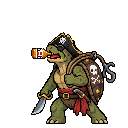
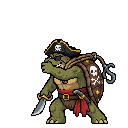
fix(art): 糖果龟放技能瞬移 —— 三段技能裸帧按带特效舞台的偏移量摆, 一放就偏 60 多像素、往上飘 90 像素
用户 11-07「它怎么瞬移到别的地方去了」。门禁 verify_seq_hooks ⑩ 量帧条本身, 修前红、修后绿。
同批: 朗姆酒拆成抬头等瓶 + 瓶到手才接(飞行时间随距离变); 强化星波彗星落下时补一下动作;
被动段全部走真入口验证(闪避 / 处决箭 / 连击 / 吸取 / 登场 / 壁垒收尾)。

Changed region(s): [[0.2188, 0.25, 0.9062, 0.9375]]

diff --git a/tools/oneoff/turtle_seq_1107/seq_export.py b/tools/oneoff/turtle_seq_1107/seq_export.py
@@ -27,7 +27,7 @@ SK = {
     "hiding": {"缩头": "hidingShrink", "防御": "hidingDefend", "强化随从": "hidingBuffSummon"},
     "headless": {"恐吓": "headlessFear", "万千触须": "headlessTendrils", "灵魂打击": "headlessSoulStrike"},
 }
-FORM = {"甜蜜吸取": "drain", "钻石结构_登场": "enter", "闪避": "dodge", "处决": "execute", "多重打击": "multi", "登场": "enter", "霰弹": "shot"}
+FORM = {"接瓶": "drink", "甜蜜吸取": "drain", "钻石结构_登场": "enter", "闪避": "dodge", "处决": "execute", "多重打击": "multi", "登场": "enter", "霰弹": "shot"}
 RAWNAME = {"dice": "dice3"}
 
 
@@ -44,7 +44,7 @@ def put(tid, seg, frames, meta, m):
 
 
 ## 真生效比 _cast_skill 晚的技能: {技能: (插几帧蓄力循环, 第几帧起可被走路 / 普攻打断)}
-HOLD = {"chestCannon": (4, 11), "starWave": (4, 11), "starWormhole": (3, 10), "crystalBall": (2, 9)}
+HOLD = {"chestCannon": (4, 11), "starWormhole": (3, 10), "crystalBall": (2, 9)}
 
 
 def charge(fr, n):
@@ -98,6 +98,9 @@ def run(tid):
                 put(tid, "cast_" + sk, fr[:5], meta, m)
                 put(tid, "state_diceDash", [fr[4], fr[5]], meta, dict(m, fps=12, rel=-1))
                 put(tid, "form_diceDash_end", fr[6:], meta, dict(m, fps=15, rel=-1))
+            elif sk == "starWave":         # 起波 +0.4 秒; 强化版第 2 秒另有彗星(star:527), 单独挥一下
+                put(tid, "cast_" + sk, charge(fr, 4), meta, dict(m, cancel=11))
+                put(tid, "form_comet", fr[3:], meta, dict(m, fps=15, rel=-1))
             elif sk == "crystalBarrier":    # 盾破 / 到期才砸地放水晶刺(M:6002)
                 put(tid, "cast_" + sk, fr, meta, m)
                 put(tid, "form_barrier_end", fr[6:], meta, dict(m, fps=15, rel=-1))

diff --git a/tools/oneoff/turtle_seq_1107/three_bare.py b/tools/oneoff/turtle_seq_1107/three_bare.py
@@ -129,7 +129,9 @@ a = s("attack2")
 put("pirate", "普攻_弯刀", [a[1], a[2], a[3], a[5], a[7], a[8], shift(a[8], -2), shift(a[8], -3), a[9], a[10], a[11], a[12]], rel=5)
 a = s("cast_volley")
 put("pirate", "技能_火炮齐射", [a[i] for i in (1, 3, 4, 5, 6, 7, 8, 9, 10, 11, 12)], rel=4)
-put("pirate", "技能_朗姆酒", s("rum3")[:17], rel=4)
+a = s("rum3")
+put("pirate", "技能_朗姆酒", a[:9] + [a[8]] * 4, rel=4, cancel=12)   # 抬头等瓶; 瓶飞 0.4~0.7 秒随距离变
+put("pirate", "被动_接瓶", a[9:17], 15)   # 瓶到手那一刻才接(_sk_pirate_rum 的 on_land)
 a = s("cast_ship")
 put("pirate", "技能_海盗船", [a[i] for i in (2, 3, 4, 5, 6, 7, 8, 9, 10, 11, 12)], rel=4)
 put("pirate", "被动_霰弹", s("shot"), 15)
@@ -158,8 +160,8 @@ put("candy", "待机", s("idle_final"), 8)
 put("candy", "走路", s("walk_final"), 12)
 put("candy", "普攻_横扫大锤", new, ox=80, ground=135, rel=4)
 a = s("q_final3")
-put("candy", "技能_糖果锤", a[:6] + [a[5], a[5]] + a[6:], ox=60, ground=123, rel=5, cancel=12)
-put("candy", "技能_糖衣炮弹", s("barrage_final"), ox=40, ground=213, rel=4)
-put("candy", "技能_糖果炸弹", s("bomb_final"), ox=40, ground=153, rel=5)
+put("candy", "技能_糖果锤", a[:6] + [a[5], a[5]] + a[6:], rel=5, cancel=12)
+put("candy", "技能_糖衣炮弹", s("barrage_final"), rel=4)
+put("candy", "技能_糖果炸弹", s("bomb_final"), rel=5)
 put("candy", "被动_甜蜜吸取", s("drain_final"), 12)
 put("candy", "阵亡", s("death_final"))
